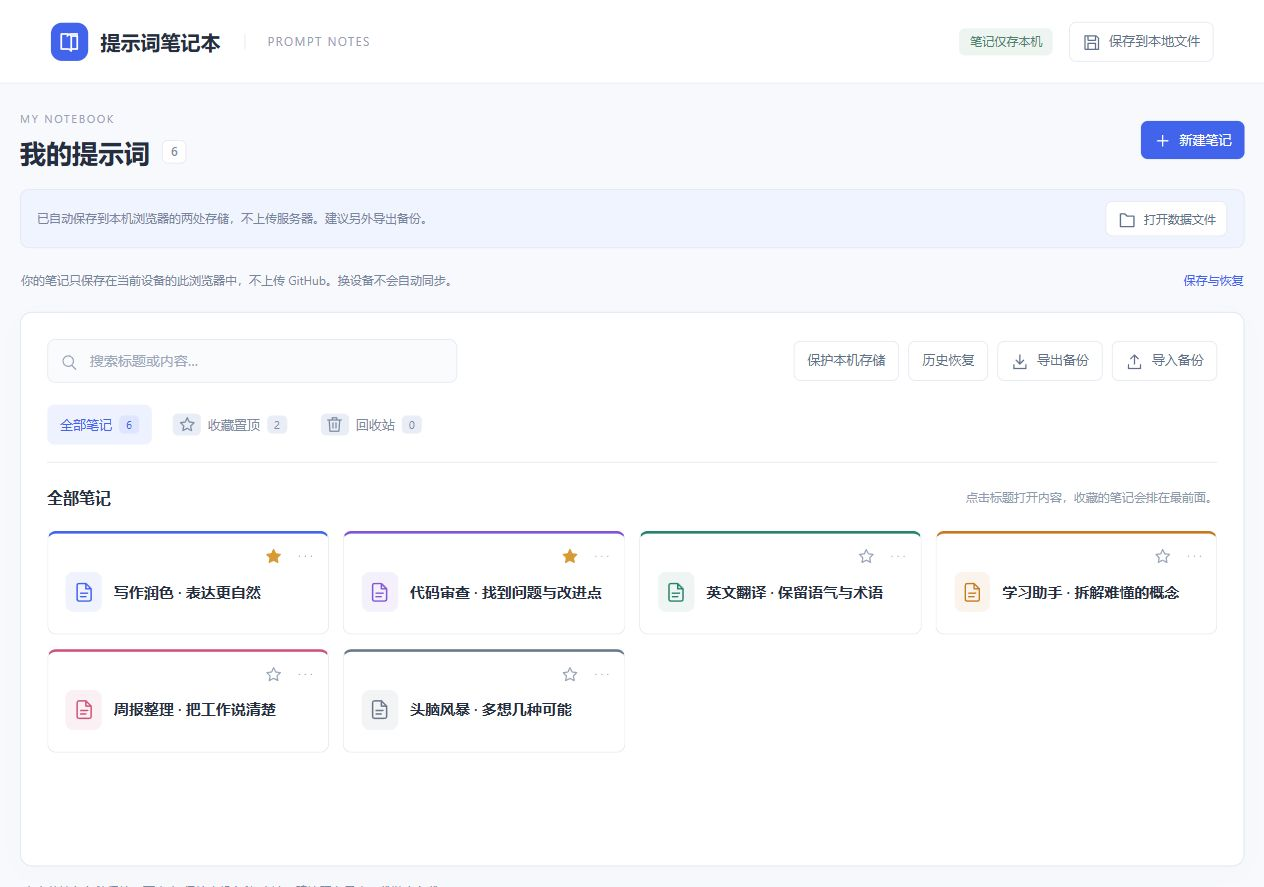
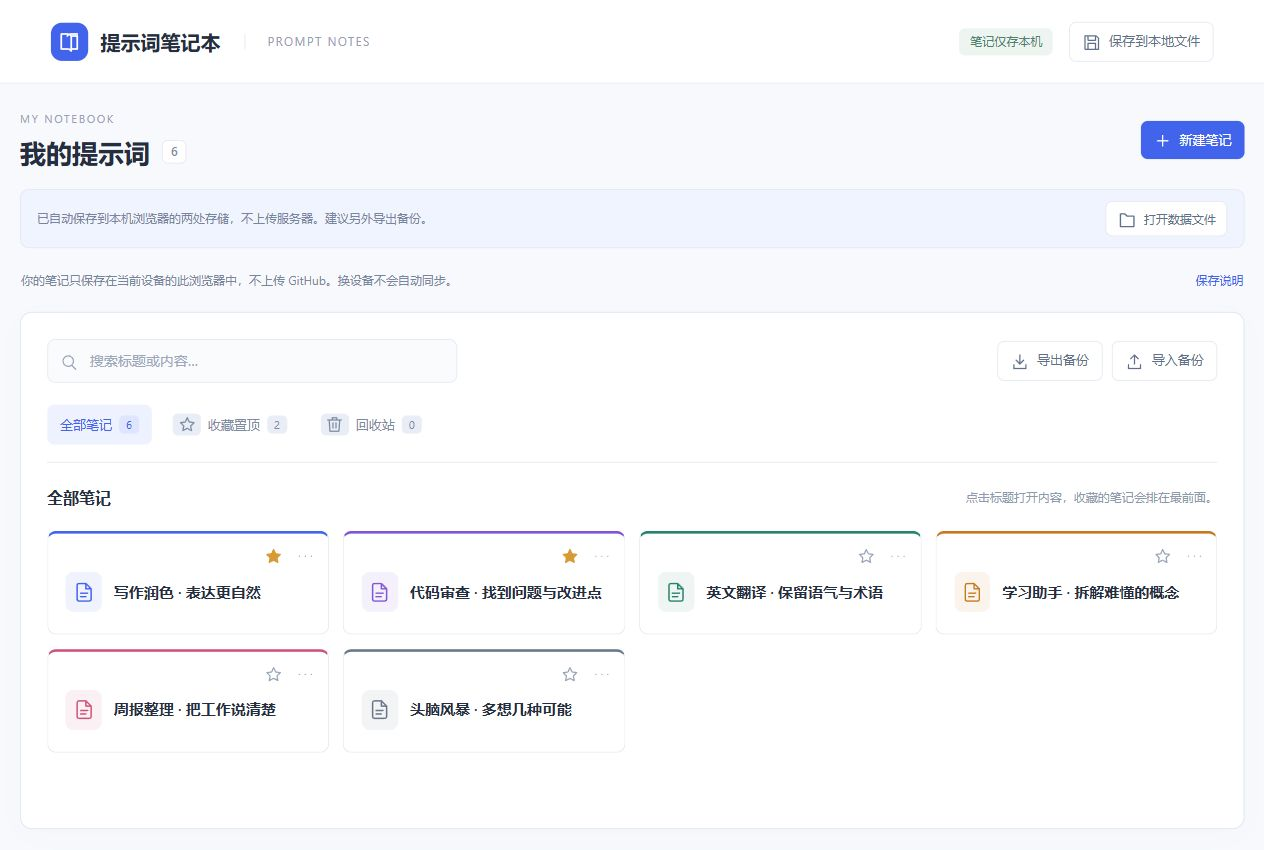
Remove storage protection and manual history recovery controls

diff --git a/styles.css b/styles.css
@@ -1,4 +1,4 @@
 :root{color-scheme:light;--ink:#252d40;--muted:#8290a7;--line:#e4e9f2;--blue:#4263eb;--bg:#f7f9fc}*{box-sizing:border-box}body{margin:0;background:var(--bg);color:var(--ink);font-family:"Segoe UI","Microsoft YaHei",sans-serif;font-size:15px}button,input,textarea{font:inherit}button{cursor:pointer;border:0}button:disabled{opacity:.5;cursor:not-allowed}button:focus-visible,input:focus-visible,a:focus-visible,textarea:focus-visible{outline:3px solid #4263eb55;outline-offset:3px}svg{width:18px;height:18px;flex:none;vertical-align:middle}h1,h2,p{margin:0}[hidden]{display:none!important}.header{min-height:84px;display:flex;align-items:center;justify-content:space-between;gap:18px;padding:20px 4%;background:white;border-bottom:1px solid var(--line)}.brand{display:flex;align-items:center;gap:12px;background:none;color:var(--ink);font-size:20px;font-weight:650;padding:0}.brand-icon{display:grid;place-items:center;width:38px;height:38px;border-radius:11px;background:var(--blue);color:white}.brand-icon svg{width:24px;height:24px}.brand small{font-size:12px;letter-spacing:.12em;font-weight:400;color:#93a0b4;border-left:1px solid var(--line);padding-left:22px;margin-left:12px}.header-right{display:flex;align-items:center;gap:16px}.offline-pill{background:#eef5f1;color:#4d8270;padding:6px 11px;border-radius:6px;font-size:12px}.button{display:inline-flex;align-items:center;justify-content:center;gap:8px;border-radius:7px;min-height:39px;padding:9px 13px;white-space:nowrap;font-size:13px;line-height:1.5}.primary{background:var(--blue);color:white}.primary:hover{background:#3454d7}.secondary{background:white;color:#61708a;border:1px solid var(--line)}.secondary:hover{background:#f5f7fc}.danger{background:#d94759;color:white}.danger:hover{background:#bd3447}.danger-outline{border:1px solid #efd1d7;background:#fff8f9;color:#c23e50}.icon-button{display:inline-grid;place-items:center;width:31px;height:31px;border-radius:6px;background:none;color:#99a5b9}.icon-button:hover{background:#edf1f8;color:var(--ink)}.main{width:min(1840px,calc(100% - 40px));margin:auto;padding:27px 0 14px}.heading{display:flex;align-items:center;justify-content:space-between;margin-bottom:20px;gap:14px}.eyebrow{font-size:11px;letter-spacing:.16em;color:#95a1b4;margin-bottom:9px}h1{font-size:26px;font-weight:600;display:flex;align-items:center;gap:12px}.count{font-size:12px;color:#7c8ca6;border:1px solid var(--line);background:white;border-radius:6px;padding:3px 8px}.save-bar{display:flex;align-items:center;justify-content:space-between;gap:16px;border:1px solid #e1e8f7;background:#f0f4ff;color:#7785a0;padding:11px 16px;border-radius:9px;margin-bottom:17px;font-size:12px;line-height:1.7}.save-bar p{min-width:0;overflow-wrap:anywhere}.save-bar.error{color:#ba4051;background:#fff4f5;border-color:#f0d3d8}.save-bar.saved-file{color:#507a69;background:#f1f7f4;border-color:#dcebe2}.save-actions{display:flex;gap:9px;flex-shrink:0}.save-actions .button{font-size:12px;min-height:34px;padding:7px 11px}.workspace{border:1px solid #dfe5ef;border-radius:12px;background:white;box-shadow:0 6px 30px #27395c04;overflow:hidden}.home{padding:26px;min-height:max(450px,calc(100dvh - 335px))}.tools{display:flex;align-items:center;justify-content:space-between;gap:18px;margin-bottom:22px}.search{display:flex;align-items:center;gap:10px;width:min(410px,100%);background:#fafbfd;border:1px solid var(--line);border-radius:8px;padding:0 12px;color:#9aa5b9}.search input{height:42px;border:0;outline:none;width:100%;min-width:0;background:none;color:var(--ink);font-size:14px}.search:focus-within{border-color:#96a9ef}.search input::placeholder{color:#9ba7bb}.backup-actions{display:flex;gap:9px}.nav{display:flex;gap:8px;border-bottom:1px solid var(--line);padding-bottom:17px;margin-bottom:24px}.nav button{display:flex;align-items:center;gap:7px;padding:9px 13px;border-radius:7px;background:none;color:#7d8aa3;font-size:13px}.nav button[aria-pressed=true]{color:var(--blue);background:#eef2ff}.nav button span{font-size:11px;padding:2px 5px;border-radius:5px;background:#e9edf5;min-width:20px;text-align:center}.nav button[aria-pressed=true] span{background:#dee6ff}.intro{display:flex;align-items:center;justify-content:space-between;gap:14px;margin-bottom:23px}.intro h2{font-size:16px;font-weight:600}.intro-right{display:flex;align-items:center;gap:16px}.intro p{font-size:12px;color:#8d99af;line-height:1.7}.grid{display:grid;grid-template-columns:repeat(auto-fill,minmax(240px,1fr));gap:14px;list-style:none;padding:0;margin:0}.card{position:relative;--note-color:#4263eb;border:1px solid var(--line);border-top:3px solid var(--note-color);border-radius:9px;background:white}.card:hover{box-shadow:0 5px 20px #26375309;border-color:color-mix(in srgb,var(--note-color) 35%,#e4e9f2)}.card-open{display:flex;align-items:center;gap:12px;width:100%;padding:32px 18px 16px;min-height:100px;background:none;color:var(--ink);text-align:left}.symbol{display:grid;place-items:center;width:36px;height:40px;flex:none;border-radius:8px;background:color-mix(in srgb,var(--note-color) 8%,white);color:var(--note-color)}.symbol svg{width:21px;height:21px}.card-title{font-size:15px;font-weight:550;overflow-wrap:anywhere;min-width:0;line-height:1.6}.card-actions{position:absolute;top:7px;right:7px;display:flex;gap:1px}.starred{color:#d69b34}.starred svg{fill:currentColor}.trash-title{display:flex;align-items:center;gap:12px;padding:18px 17px 12px;min-height:77px}.trash-footer{padding:0 17px 16px;display:flex;align-items:center;justify-content:space-between;gap:9px}.trash-footer small{font-size:11px;color:#9aa6bb}.trash-footer .button{font-size:12px;min-height:32px;padding:6px 10px}.empty{display:grid;place-content:center;justify-items:center;min-height:280px;text-align:center;color:#8996ad;gap:14px;padding:20px}.empty h2{font-size:20px;color:#606e87;font-weight:500}.empty p{font-size:13px;line-height:1.8}.empty>svg{width:30px;height:30px;color:#aab7d3}.footer{padding:18px 3px;display:flex;justify-content:space-between;gap:15px;color:#95a0b3;font-size:12px;line-height:1.8}.back{display:flex;align-items:center;gap:8px;background:none;color:#72819c;margin:0 0 15px;padding:6px 2px;font-size:13px}.tabs{display:flex;gap:6px;background:#f0f3f9;padding:9px 9px 0;border-bottom:1px solid var(--line);overflow-x:auto}.tabs button{flex:none;padding:12px 16px;border-radius:7px 7px 0 0;background:none;color:#7a88a1;border-top:2px solid transparent;max-width:240px;overflow:hidden;text-overflow:ellipsis;white-space:nowrap;font-size:13px}.tabs button[aria-selected=true]{background:white;color:var(--ink);border-color:var(--note-color)}.editor-toolbar{display:flex;align-items:center;justify-content:space-between;gap:18px;padding:23px 32px;border-bottom:1px solid #edf0f5}.editor-title{display:flex;align-items:center;gap:14px;min-width:0}.editor-title>div{min-width:0}.title-button{background:none;color:var(--ink);padding:0;display:flex;gap:10px;align-items:center;min-width:0;text-align:left}.title-button h2{font-size:20px;white-space:nowrap;overflow:hidden;text-overflow:ellipsis}.title-button svg{color:#abb6c9;width:15px;height:15px}.editor-status{font-size:12px;color:#93a0b5;margin-top:6px}.editor-buttons{display:flex;align-items:center;gap:9px;flex:none}.writing{padding:25px 34px 16px}.writing label{display:block;font-size:12px;color:#93a0b6;margin-bottom:21px}.writing textarea{display:block;resize:vertical;width:100%;border:0;background:none;outline:none;color:#394257;line-height:1.9;font-size:16px;min-height:calc(100dvh - 462px);height:420px}.writing textarea::placeholder{color:#b0bacb}.writing textarea:focus-visible{outline:2px solid #4263eb20}.editor-footer{border-top:1px solid #f1f3f7;padding:13px 34px;display:flex;justify-content:space-between;color:#99a5b9;font-size:12px}.menu{position:fixed;z-index:5;width:244px;border:1px solid var(--line);border-radius:10px;background:white;padding:7px;box-shadow:0 14px 45px #26375320}.menu-title{font-size:12px;padding:10px;color:#929eb3;white-space:nowrap;overflow:hidden;text-overflow:ellipsis;border-bottom:1px solid #eef1f6;margin-bottom:4px}.menu>button{display:flex;width:100%;gap:10px;align-items:center;padding:11px 10px;background:none;color:#61718d;font-size:13px;border-radius:5px;text-align:left}.menu>button:hover{background:#f2f5fa}.menu .delete{color:#c6475a}.color-label{padding:8px 10px 4px;font-size:12px;color:#8b98af}.colors{display:flex;gap:9px;padding:10px 10px 16px;border-bottom:1px solid #eef1f6;margin-bottom:5px}.colors button{width:27px;height:27px;border-radius:50%;border:3px solid white;color:white;display:grid;place-items:center;padding:0}.colors button[aria-checked=true]{box-shadow:0 0 0 1px #8190ae}.colors svg{width:14px;height:14px}.dialog{padding:0;border:1px solid var(--line);width:min(460px,calc(100% - 36px));border-radius:13px;background:white;color:var(--ink);box-shadow:0 24px 90px #1b294031}.dialog::backdrop{background:#1e2d454a;backdrop-filter:blur(3px)}.dialog form{padding:24px}.dialog-heading{display:flex;align-items:center;justify-content:space-between;gap:10px;margin-bottom:21px}.dialog h2{font-size:19px;font-weight:600}.dialog p{line-height:1.9;font-size:14px;color:#7b89a2;overflow-wrap:anywhere}.dialog input{width:100%;margin-top:8px;padding:11px 12px;border:1px solid #dce3ef;border-radius:7px;background:#fafbfd;font-size:16px;color:var(--ink)}.dialog label{font-size:14px;color:#71809c}.dialog-actions{display:flex;justify-content:flex-end;gap:10px;margin-top:24px}.policy{margin-top:15px!important;padding:11px 13px;background:#f5f7fc;border-radius:7px;font-size:12px!important}.toast{position:fixed;z-index:10;bottom:27px;left:50%;transform:translateX(-50%);display:flex;align-items:center;gap:10px;padding:12px 18px;max-width:calc(100% - 28px);border-radius:9px;background:#28334a;color:white;font-size:13px;line-height:1.6;box-shadow:0 5px 25px #1b294025}.toast button{background:none;color:#c9d6ff;text-decoration:underline;text-underline-offset:3px;font-size:13px;white-space:nowrap}.toast .icon-button{color:#aab8d2}.fatal{padding:25px;color:#b33b50;background:#fff4f5;line-height:1.9}noscript{display:block;padding:30px;color:#b33b50}
     @media(max-width:800px){.brand small{display:none}.header{padding:17px 22px}.offline-pill{display:none}.main{width:calc(100% - 32px)}.tools{flex-wrap:wrap;gap:12px}.search{width:100%}.backup-actions{margin-left:auto}.grid{grid-template-columns:repeat(2,minmax(0,1fr))}.save-bar{align-items:flex-start;flex-wrap:wrap}.intro-right{flex-wrap:wrap;justify-content:flex-end}.footer span:last-child{display:none}}
     @media(max-width:520px){.header{padding:17px 18px}.brand{font-size:17px;gap:10px}.brand-icon{width:34px;height:34px}.header-right .button{font-size:12px;padding:8px 10px}.main{width:calc(100% - 24px);padding-top:23px}h1{font-size:22px}.home{padding:20px 16px;min-height:440px}.nav{gap:4px;justify-content:space-between}.nav button{font-size:12px;padding:8px 6px;gap:4px}.nav svg{width:14px;height:14px}.nav button span{padding:2px 4px;font-size:10px}.intro{align-items:flex-start;flex-wrap:wrap;gap:10px}.intro-right{width:100%;justify-content:space-between;gap:8px}.intro-right p{flex:1;min-width:160px}.grid{grid-template-columns:minmax(0,1fr);gap:12px}.backup-actions{width:100%}.backup-actions .button{flex:1;font-size:12px}.save-bar{padding:10px 12px;gap:9px}.save-actions{width:100%}.save-actions .button{flex:1}.editor-toolbar{padding:20px;flex-wrap:wrap}.editor-title{width:100%}.editor-title h2{font-size:18px}.editor-buttons{margin-left:auto}.writing{padding:24px 22px 16px}.writing textarea{font-size:16px;min-height:400px}.editor-footer{padding:12px 22px}.footer{padding:15px 3px;font-size:11px}.toast{bottom:16px}.dialog-actions .button{font-size:12px}}
-.privacy-info{display:flex;justify-content:space-between;gap:15px;align-items:center;margin:0 1px 15px;color:#78869d;font-size:12px;line-height:1.8}.text-button{background:none;color:#4263eb;font-size:12px;white-space:nowrap;padding:5px 0}.protection-status{font-size:12px;color:#7c8aa0;line-height:1.8;margin:15px 3px 0}.backup-actions{flex-wrap:wrap}.history-choice{display:block;width:100%;margin-top:10px;text-align:left;white-space:normal}.tools{flex-wrap:wrap}.policy-list{padding-left:20px;line-height:1.9;color:#71809b;font-size:14px}@media(max-width:800px){.privacy-info{align-items:flex-start}.backup-actions{width:100%;margin:0}.backup-actions .button{flex:1}}
+.privacy-info{display:flex;justify-content:space-between;gap:15px;align-items:center;margin:0 1px 15px;color:#78869d;font-size:12px;line-height:1.8}.text-button{background:none;color:#4263eb;font-size:12px;white-space:nowrap;padding:5px 0}.backup-actions{flex-wrap:wrap}.tools{flex-wrap:wrap}.policy-list{padding-left:20px;line-height:1.9;color:#71809b;font-size:14px}@media(max-width:800px){.privacy-info{align-items:flex-start}.backup-actions{width:100%;margin:0}.backup-actions .button{flex:1}}

diff --git a/app.js b/app.js
@@ -212,9 +212,9 @@ function renameNote(id) {
 }
 function deleteNote(id){const note=state.notes.find(n=>n.id===id);if(!note)return;showDialog("删除这条笔记？",[paragraph(`「${note.title}」将移入回收站，之后仍可恢复。`)],"删除笔记",()=>{if(!updateNote(id,{deletedAt:Date.now()}))return false;if(activeId===id)activeId=null;render();showToast("笔记已移入回收站。",id);return true;},{danger:true});}
 function clearTrash(){dialogTargets=state.notes.filter(n=>n.deletedAt!==null).map(n=>({id:n.id,updatedAt:n.updatedAt,deletedAt:n.deletedAt}));if(!dialogTargets.length)return;
-  showDialog("清空回收站？",[paragraph(`将永久删除回收站中的全部 ${dialogTargets.length} 条笔记，清空后无法通过回收站恢复。主页中的笔记不会被删除。`),paragraph("历史恢复点和已导出的备份可能仍保留旧笔记。如需保留副本，请先取消并导出备份。","policy")],"永久清空",()=>{let removed=0;if(!commit(notes=>{for(let i=notes.length-1;i>=0;i--){const n=notes[i];if(n.deletedAt!==null && dialogTargets.some(t=>t.id===n.id && t.updatedAt===n.updatedAt && t.deletedAt===n.deletedAt)){notes.splice(i,1);removed++;}}}))return false;render();showToast(`已永久清除 ${removed} 条笔记。`);return true;},{danger:true});
+  showDialog("清空回收站？",[paragraph(`将永久删除回收站中的全部 ${dialogTargets.length} 条笔记，清空后无法通过回收站恢复。主页中的笔记不会被删除。`),paragraph("已导出的备份可能仍保留旧笔记。如需保留副本，请先取消并导出备份。","policy")],"永久清空",()=>{let removed=0;if(!commit(notes=>{for(let i=notes.length-1;i>=0;i--){const n=notes[i];if(n.deletedAt!==null && dialogTargets.some(t=>t.id===n.id && t.updatedAt===n.updatedAt && t.deletedAt===n.deletedAt)){notes.splice(i,1);removed++;}}}))return false;render();showToast(`已永久清除 ${removed} 条笔记。`);return true;},{danger:true});
 }
-function exportBackup(){try{localStorage.setItem(BOOK_KEY+"-last-backup",String(Date.now()));}catch{}const link=document.createElement("a");const url=URL.createObjectURL(new Blob([encodeState(snapshot())],{type:"application/json"}));link.href=url;link.download="提示词笔记备份-"+new Date().toLocaleDateString("sv-SE")+".json";document.body.append(link);link.click();link.remove();setTimeout(()=>URL.revokeObjectURL(url),60000);showToast(`已导出 ${state.notes.length} 条笔记（含回收站）。`);}
+function exportBackup(){const link=document.createElement("a");const url=URL.createObjectURL(new Blob([encodeState(snapshot())],{type:"application/json"}));link.href=url;link.download="提示词笔记备份-"+new Date().toLocaleDateString("sv-SE")+".json";document.body.append(link);link.click();link.remove();setTimeout(()=>URL.revokeObjectURL(url),60000);showToast(`已导出 ${state.notes.length} 条笔记（含回收站）。`);}
 async function selectImport(file){if(!file)return;try{if(file.size>10*1024*1024)throw Error("备份文件不能超过 10 MB。");const backup=validateBackup(JSON.parse((await file.text()).replace(/^\uFEFF/,"")));pendingImport=backup;const trash=backup.notes.filter(n=>n.deletedAt!==null).length;
     showDialog("导入备份",[paragraph(`已读取 ${backup.notes.length} 条笔记：${backup.notes.length-trash} 条普通笔记，${trash} 条回收站笔记。`),paragraph("只添加新笔记，不覆盖已有笔记；重复导入会自动跳过。","policy")],"确认导入",()=>{if(readOnly && !tabBlocked){readOnly=false;$("fatal").hidden=true;}let added=0;if(!commit(notes=>{const ids=new Set(notes.map(n=>n.id));for(const n of backup.notes)if(!ids.has(n.id)){notes.push({...n});ids.add(n.id);added++;}}))return false;render();showToast(`导入完成：新增 ${added} 条，跳过 ${backup.notes.length-added} 条重复笔记。`);return true;});
   }catch(error){showToast(error instanceof SyntaxError?"JSON 格式错误，尚未导入任何内容。":error.message);}finally{$("import-file").value="";}}
@@ -267,15 +267,7 @@ async function restoreLinkedFile(){
 }
 
 const records=new NotebookRecords(BOOK_KEY,validateBackup);
-let mirrorPending=0,mirrorError="",mirrorReady=false,persistent=false,tabBlocked=false,hadCache=false;
-
-function protectionStatus(){
-  const label=persistent?"已获浏览器持久存储保护":"尚未获持久存储保护，可点击“保护本机存储”申请";
-  let last=0;try{last=Number(localStorage.getItem(BOOK_KEY+"-last-backup")) || 0;}catch{}
-  const reminder=state?.notes.length && (!last || Date.now()-last>7*86400000)?"建议现在导出一份独立备份。":"请定期导出备份，或关联本地数据文件。";
-  $("protection-status").textContent=label+"。"+reminder;
-  $("protect").disabled=persistent;$("protect").textContent=persistent?"存储已保护":"保护本机存储";
-}
+let mirrorPending=0,mirrorError="",mirrorReady=false,tabBlocked=false,hadCache=false;
 function saveStatus(){
   baseSaveStatus();
   if(tabBlocked){$("save-bar").classList.add("error");$("save-message").textContent="此浏览器已有一个笔记本窗口正在编辑。当前窗口仅供查看；关闭另一窗口后刷新本页即可编辑。";}
@@ -286,7 +278,6 @@ function saveStatus(){
   }
   if(mirrorPending && !diskPending)$("editor-status").textContent="已快速保存，正在写入本机副本…";
   else if(mirrorError)$("editor-status").textContent="已保留笔记，请检查上方保存提示";
-  protectionStatus();
 }
 function queueMirror(){
   if(!mirrorReady || tabBlocked)return Promise.resolve();
@@ -303,40 +294,14 @@ async function acquireWriteLock(){
   });
 }
 function safetyInfo(){
-  showDialog("保存与恢复",[
+  showDialog("保存说明",[
     paragraph("笔记只保存在这台设备、当前浏览器的网站存储中。我们没有笔记服务器、登录系统或笔记上传接口；GitHub 仅提供网页文件。"),
-    paragraph("每次修改会立即快速保存，再写入第二份本机数据库；可通过“历史恢复”选择近期恢复点。回收站中的笔记也会保存。"),
-    paragraph("请点击“保护本机存储”，降低浏览器因空间不足而自动清理数据的风险。是否批准由浏览器决定；无痕模式不适合长期保存。"),
+    paragraph("笔记会自动保存在当前浏览器，下次打开可以继续使用。删除的笔记会进入回收站，可以在那里恢复。"),
     paragraph("本机的两份存储仍可能同时被清除。主动清除网站数据、卸载浏览器或设备损坏时，需要独立文件备份恢复。建议关联本地数据文件，或每周导出备份。","policy"),
     paragraph("更换浏览器、设备或网址不会自动同步。共用同一浏览器配置的人也能看到这里的笔记；这不是加密保险箱。")
   ],"知道了",()=>true);
 }
-async function protectStorage(){
-  try{
-    if(!navigator.storage?.persist){showToast("此浏览器不支持申请持久存储，请使用独立文件备份。");return;}
-    persistent=await navigator.storage.persist();protectionStatus();
-    showToast(persistent?"浏览器已批准持久存储。仍请保留独立文件备份。":"浏览器尚未批准。笔记仍在本机，请关联文件或定期导出备份。");
-  }catch{showToast("无法申请存储保护，请用独立文件备份保留笔记。");}
-}
-async function historyDialog(){
-  try{
-    const versions=await records.list();
-    if(!versions.length){showToast("暂时没有可用恢复点。编辑笔记后会自动生成。");return;}
-    const choices=versions.slice(0,7).map(version=>{
-      const label=new Date(version.exportedAt).toLocaleString("zh-CN")+" · "+version.notes.length+" 条笔记";
-      const choice=button(label,"button secondary history-choice",null,()=>{
-        showDialog("恢复这个版本？",[paragraph(label),paragraph("当前笔记将替换为这个版本；当前版本会先保留到本机恢复点。建议先导出一份当前备份。","policy")],"恢复版本",()=>{
-          if(tabBlocked)return false;
-          const wasReadOnly=readOnly;readOnly=false;
-          if(!commit(notes=>notes.splice(0,notes.length,...version.notes.map(n=>({...n}))))){readOnly=wasReadOnly;return false;}
-          $("fatal").hidden=true;activeId=null;render();showToast("已恢复所选版本，并保存为新的当前版本。");return true;
-        });
-      });choice.disabled=tabBlocked || booting;return choice;
-    });
-    showDialog("历史恢复",[paragraph("以下副本仅保存在当前浏览器中。清除网站数据会连同恢复点一起清除。"),...choices],"关闭",()=>true);
-  }catch{showToast("历史恢复暂时不可用。当前笔记不会被修改，请导出备份。");}
-}
-$("protect").onclick=()=>void protectStorage();$("history").onclick=()=>void historyDialog();$("safety").onclick=safetyInfo;
+$("safety").onclick=safetyInfo;
 window.addEventListener("beforeunload",event=>{if(mirrorPending || cacheError && mirrorError){event.preventDefault();event.returnValue="";}});
 window.addEventListener("online",()=>showToast("网络已恢复。笔记仍只保存在本机。"));
 
@@ -358,9 +323,8 @@ async function boot(){
     }
   }
   booting=false;
-  if(readOnly){$("fatal").hidden=false;$("fatal").textContent="无法安全读取已有笔记。请打开本地数据文件或使用历史恢复；现有存储未被清空。";}
+  if(readOnly){$("fatal").hidden=false;$("fatal").textContent="无法安全读取已有笔记。请打开本地数据文件或导入备份；现有存储未被清空。";}
   render();
-  navigator.storage?.persisted?.().then(value=>{persistent=value;protectionStatus();}).catch(()=>{});
   if(!tabBlocked)void restoreLinkedFile();
   if("serviceWorker" in navigator && isSecureContext){
     navigator.serviceWorker.register("./sw.js").catch(()=>{showToast("离线缓存暂时不可用，笔记保存不受影响。");});

diff --git a/index.html b/index.html
@@ -18,10 +18,10 @@
   <div class="heading"><div><p class="eyebrow">MY NOTEBOOK</p><h1>我的提示词 <span class="count" id="note-count">0</span></h1></div><button id="new-note" class="button primary"><span data-icon="plus"></span>新建笔记</button></div>
   <div id="save-bar" class="save-bar" role="status"><p id="save-message">正在读取本机笔记…</p><div class="save-actions"><button id="open-file" class="button secondary"><span data-icon="folder"></span>打开数据文件</button><button id="retry-file" class="button secondary" hidden>重新允许保存</button></div></div>
   <button id="back" class="back" hidden><span data-icon="back"></span>返回主页</button>
-  <aside class="privacy-info"><span>你的笔记只保存在当前设备的此浏览器中，不上传 GitHub。换设备不会自动同步。</span><button id="safety" class="text-button">保存与恢复</button></aside>
+  <aside class="privacy-info"><span>你的笔记只保存在当前设备的此浏览器中，不上传 GitHub。换设备不会自动同步。</span><button id="safety" class="text-button">保存说明</button></aside>
 <section class="workspace" aria-label="提示词笔记本">
     <div id="home" class="home">
-      <div class="tools"><div class="search"><span data-icon="search"></span><input id="search" aria-label="搜索笔记" placeholder="搜索标题或内容…"><button id="clear-search" class="icon-button" aria-label="清空搜索" hidden><span data-icon="x"></span></button></div><div class="backup-actions"><button id="protect" class="button secondary">保护本机存储</button><button id="history" class="button secondary">历史恢复</button><button id="export" class="button secondary"><span data-icon="download"></span>导出备份</button><button id="import" class="button secondary"><span data-icon="upload"></span>导入备份</button></div></div>
+      <div class="tools"><div class="search"><span data-icon="search"></span><input id="search" aria-label="搜索笔记" placeholder="搜索标题或内容…"><button id="clear-search" class="icon-button" aria-label="清空搜索" hidden><span data-icon="x"></span></button></div><div class="backup-actions"><button id="export" class="button secondary"><span data-icon="download"></span>导出备份</button><button id="import" class="button secondary"><span data-icon="upload"></span>导入备份</button></div></div>
       <nav class="nav" aria-label="笔记分类"><button data-scope="all" aria-pressed="true">全部笔记<span id="all-count">0</span></button><button data-scope="favorites" aria-pressed="false"><span data-icon="star"></span>收藏置顶<span id="favorite-count">0</span></button><button data-scope="trash" aria-pressed="false"><span data-icon="trash"></span>回收站<span id="trash-count">0</span></button></nav>
       <div class="intro"><h2 id="scope-title">全部笔记</h2><div class="intro-right"><p id="scope-hint">点击标题打开内容，收藏的笔记会排在最前面。</p><button id="clear-trash" class="button danger-outline" hidden><span data-icon="trash"></span>一键清空</button></div></div>
       <ul id="grid" class="grid" aria-label="笔记标题列表"></ul><div id="empty" class="empty" hidden><span id="empty-icon"></span><h2 id="empty-title"></h2><p id="empty-hint"></p></div>
@@ -29,7 +29,7 @@
     <div id="editor" hidden><div id="tabs" class="tabs" role="tablist" aria-label="提示词笔记"></div><div class="editor-toolbar"><div class="editor-title"><span id="editor-symbol" class="symbol" data-icon="file"></span><div><button id="rename-title" class="title-button" aria-label="重命名当前笔记"><h2 id="editor-title"></h2><span data-icon="pencil"></span></button><p id="editor-status" class="editor-status">已保存</p></div></div><div class="editor-buttons"><button id="copy" class="button primary"><span data-icon="copy"></span>复制内容</button><button id="editor-menu" class="button secondary" aria-label="当前笔记选项" aria-haspopup="menu"><span data-icon="more"></span></button></div></div><div class="writing"><label for="content">提示词内容</label><textarea id="content" spellcheck="false" maxlength="200000" placeholder="在这里粘贴或写下你的提示词…"></textarea></div><div class="editor-footer"><span>Ctrl / ⌘ + S 保存</span><span id="characters">0 字符</span></div></div>
     <div id="fatal" class="fatal" hidden role="alert"></div>
   </section>
-  <p id="protection-status" class="protection-status" role="status"></p><footer class="footer"><span>右键笔记可重命名、换色或删除。</span><span>支持离线打开 · 无账号 · 无笔记上传</span></footer>
+  <footer class="footer"><span>右键笔记可重命名、换色或删除。</span><span>支持离线打开 · 无账号 · 无笔记上传</span></footer>
 </main>
 <div id="menu" class="menu" role="menu" aria-label="管理笔记" hidden></div>
 <dialog id="dialog" class="dialog" aria-labelledby="dialog-title"><form id="dialog-form"><div class="dialog-heading"><h2 id="dialog-title"></h2><button type="button" id="dialog-close" class="icon-button" aria-label="关闭弹窗"><span data-icon="x"></span></button></div><div id="dialog-body"></div><div class="dialog-actions"><button type="button" id="cancel" class="button secondary">取消</button><button type="submit" id="confirm" class="button primary">确认</button></div></form></dialog>
@@ -38,6 +38,6 @@
 <noscript>请在浏览器中允许此本地网页运行 JavaScript。笔记本不使用任何网络服务。</noscript>
 <script id="initial-notes" type="application/json">{"format":"prompt-notebook","version":1,"exportedAt":"1970-01-01T00:00:00.000Z","notes":[]}</script>
 <script src="./storage.js" defer></script>
-<script src="./app.js" defer></script>
+<script src="./app.js?v=4" defer></script>
 </body>
 </html>

diff --git a/sw.js b/sw.js
@@ -1,6 +1,6 @@
 "use strict";
-const CACHE="prompt-notebook-public-shell-v3-"+new URL(self.registration.scope).pathname;
-const ASSETS=["./","./index.html","./styles.css","./storage.js","./app.js","./manifest.webmanifest","./icon.svg"];
+const CACHE="prompt-notebook-public-shell-v4-"+new URL(self.registration.scope).pathname;
+const ASSETS=["./","./index.html","./styles.css","./storage.js","./app.js?v=4","./manifest.webmanifest","./icon.svg"];
 self.addEventListener("install",event=>{event.waitUntil(caches.open(CACHE).then(cache=>cache.addAll(ASSETS)));});
 self.addEventListener("activate",event=>{
   event.waitUntil((async()=>{const suffix="-"+new URL(self.registration.scope).pathname;for(const key of await caches.keys())if(key.startsWith("prompt-notebook-public-shell-") && key.endsWith(suffix) && key!==CACHE)await caches.delete(key);await self.clients.claim();})());

diff --git a/README.md b/README.md
@@ -36,7 +36,6 @@ A lightweight, local-first prompt manager. Save, search, organize and copy your 
 | 收藏置顶 | 常用笔记放在最前面，也能单独查看收藏 |
 | 回收站 | 删掉的笔记可以找回来，需要整理时一键清空 |
 | 导出与导入 | 用一个 JSON 文件备份、迁移，也能与离线版互相导入 |
-| 历史恢复 | 需要回看时，从近期保存的版本里选择恢复 |
 | 离线使用 | 首次联网打开并缓存后，断网也能继续整理笔记 |
 
 ## 怎么用
@@ -53,7 +52,7 @@ A lightweight, local-first prompt manager. Save, search, organize and copy your 
 
 想让笔记另外保存成电脑里的文件，可以在支持的 Chrome、Edge 浏览器中点击右上角「保存到本地文件」，选好位置，后续修改也会写入这个文件。再次打开时，可以用「打开数据文件」继续使用。
 
-日常使用时，也可以点击「保护本机存储」申请浏览器的存储保护。想换一台电脑继续整理，就导出备份，在新电脑上打开网站后导入。网页版和离线版使用相同的备份格式，可以互相导入。
+想换一台电脑继续整理，就导出备份，在新电脑上打开网站后导入。网页版和离线版使用相同的备份格式，可以互相导入。
 
 ## 觉得顺手，就留个 Star
 
